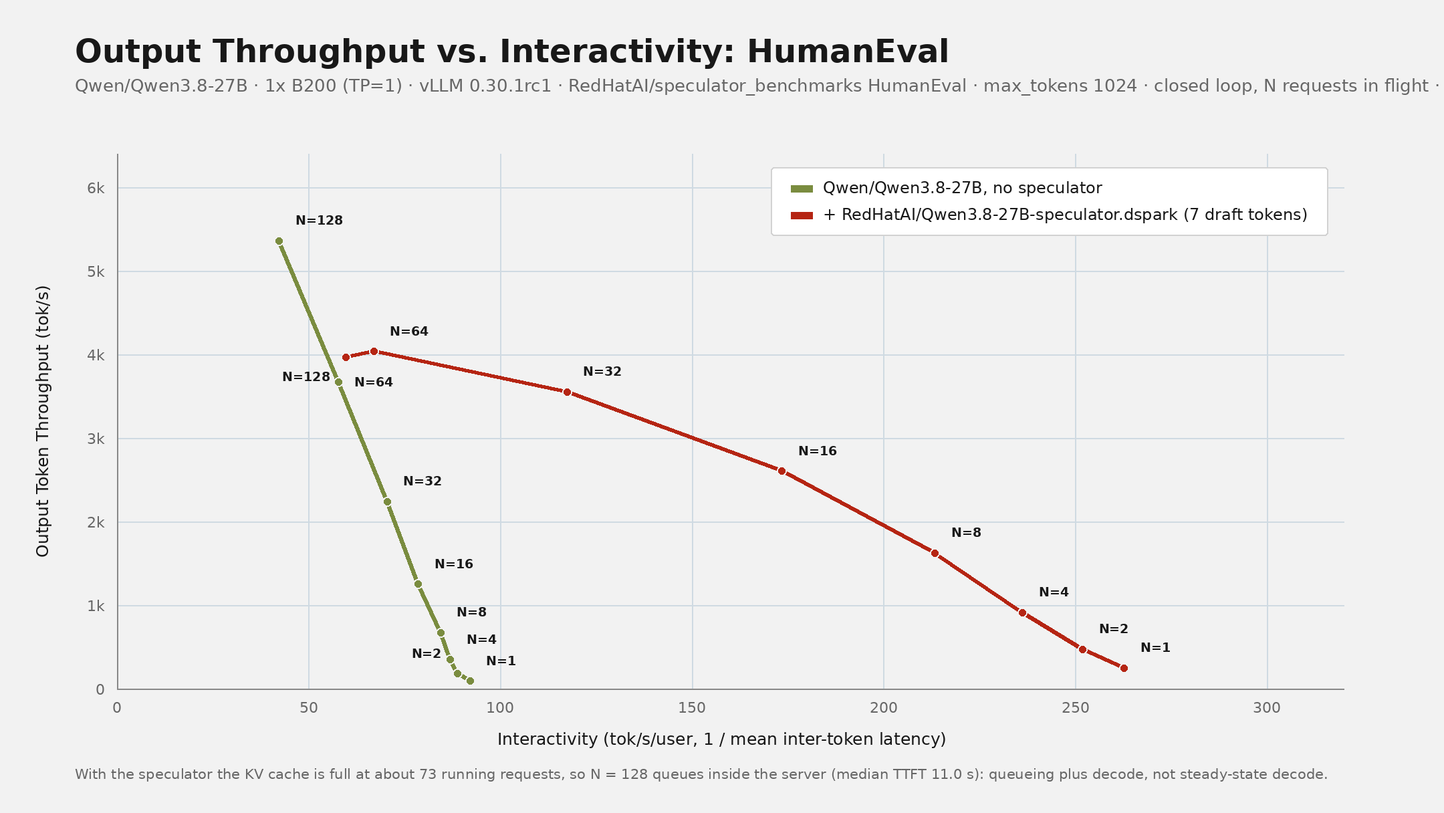
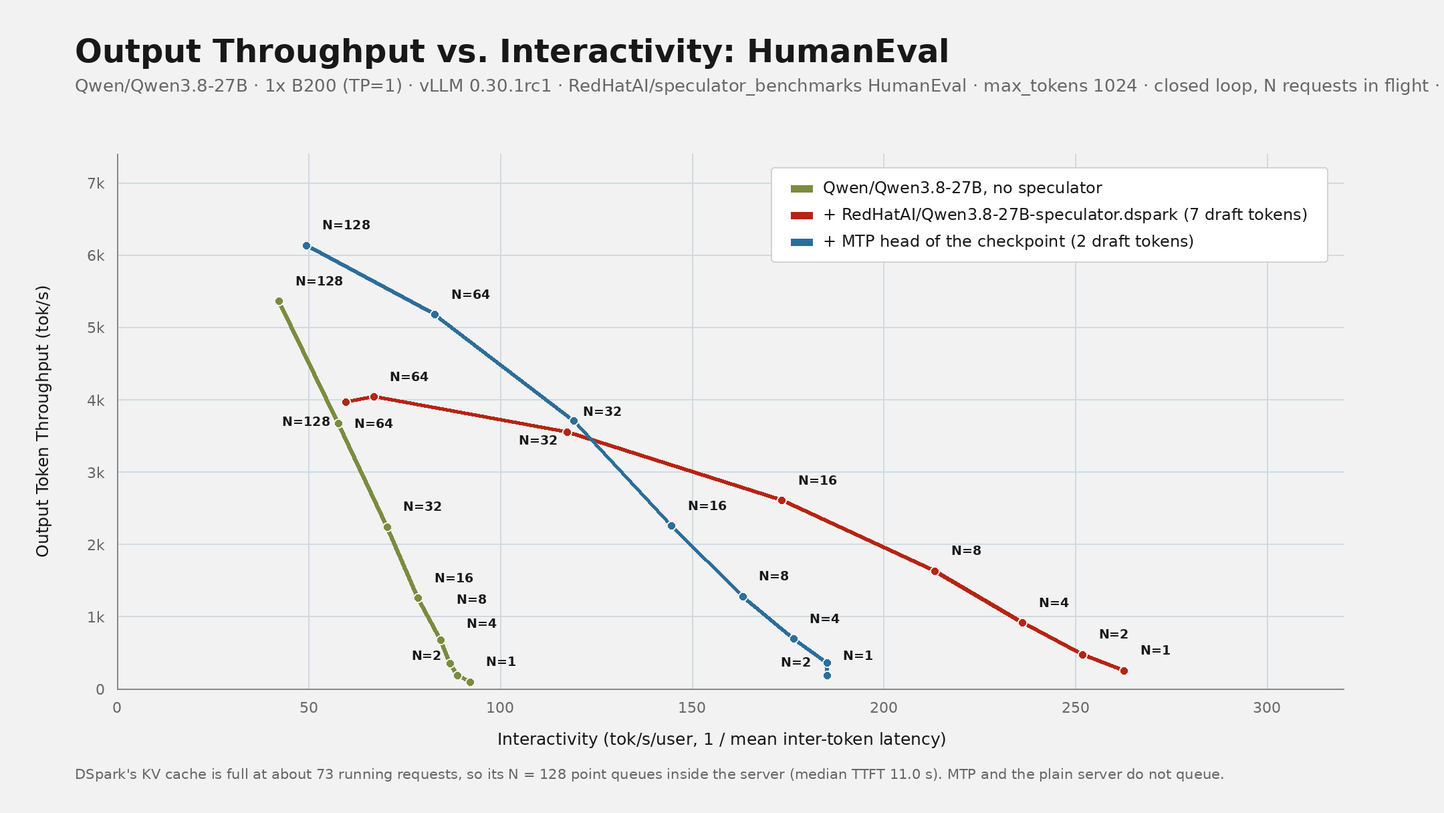
Add the MTP head as a third configuration of the DSpark example
Benchmark Qwen/Qwen3.8-27B with the MTP head shipped in the checkpoint, at
the 2 draft tokens Qwen's model cards recommend for this architecture, on
the same HumanEval and math_reasoning sweeps. Add it to the example script,
the charts (three curves), the results tables and findings, and the results
directory (CSVs, provenance, validation reports, serve command and driver).

With 2-token drafts MTP gives 2.0x to 2.2x per-user speed at one request in
flight against 2.9x to 4.0x for DSpark, but its KV cache holds all 128
requests and its cheap drafts keep the verifier batch efficient, so it ends
above the plain server in throughput at 128 streams on both datasets, where
the DSpark configuration has queued since about 73 running requests.

diff --git a/examples/evaluate/results/qwen3_8_27b_dspark/README.md b/examples/evaluate/results/qwen3_8_27b_dspark/README.md
@@ -1,46 +1,46 @@
-# Qwen3.8-27B with and without `RedHatAI/Qwen3.8-27B-speculator.dspark`
+# Qwen3.8-27B alone, with `RedHatAI/Qwen3.8-27B-speculator.dspark`, and with its MTP head
 
-Results of `examples/evaluate/example_qwen3_8_27b_dspark_throughput_interactivity.sh`'s procedure, measured on 2026-10-06. The charts are in `docs/assets/throughput_interactivity_qwen3_8_27b_*.png` and the discussion in the [tutorial](../../../docs/user_guide/tutorials/throughput_interactivity.md#results-qwen38-27b-with-and-without-its-dspark-speculator).
+Results of `examples/evaluate/example_qwen3_8_27b_dspark_throughput_interactivity.sh`'s procedure, measured on 2026-10-06. The charts are in `docs/assets/throughput_interactivity_qwen3_8_27b_*.png` and the discussion in the [tutorial](../../../docs/user_guide/tutorials/throughput_interactivity.md#results-qwen38-27b-alone-with-its-dspark-speculator-and-with-its-mtp-head).
 
-| file                                  | contents                                                                                                                                                                          |
-| ------------------------------------- | --------------------------------------------------------------------------------------------------------------------------------------------------------------------------------- |
-| `<config>_<subset>.csv`               | one row per point: `baseline` is `Qwen/Qwen3.8-27B` alone, `dspark` adds the speculator with 7 draft tokens                                                                       |
-| `<config>_<subset>_validate.txt`      | the `validate` table and warnings for that sweep                                                                                                                                  |
-| `<config>_<subset>_bench_command.txt` | provenance written by `collect`: command, versions, server version and model list                                                                                                 |
-| `serve_<config>_command.txt`          | the exact `vllm serve` command of each server                                                                                                                                     |
-| `diagnostic_pinned_limits/`           | N = 96 and 128 rerun with `--max-num-seqs 256 --max-num-batched-tokens 16384` while sampling vLLM's running, waiting and KV-usage gauges: the queueing comes from a full KV cache |
-| `run_sweeps_used.sh`                  | the driver that produced these files: the same `collect` calls as the example script, with the two servers run in parallel on two GPUs                                            |
+| file                                    | contents                                                                                                                                                                                    |
+| --------------------------------------- | ------------------------------------------------------------------------------------------------------------------------------------------------------------------------------------------- |
+| `<config>_<subset>.csv`                 | one row per point: `baseline` is `Qwen/Qwen3.8-27B` alone, `dspark` adds the speculator with 7 draft tokens, `mtp` uses the checkpoint's own MTP head with 2 draft tokens                   |
+| `<config>_<subset>_validate.txt`        | the `validate` table and warnings for that sweep                                                                                                                                            |
+| `<config>_<subset>_bench_command.txt`   | provenance written by `collect`: command, versions, server version and model list                                                                                                           |
+| `serve_<config>_command.txt`            | the exact `vllm serve` command of each server                                                                                                                                               |
+| `diagnostic_pinned_limits/`             | DSpark at N = 96 and 128 rerun with `--max-num-seqs 256 --max-num-batched-tokens 16384` while sampling vLLM's running, waiting and KV-usage gauges: the queueing comes from a full KV cache |
+| `run_sweeps_used.sh`, `run_mtp_used.sh` | the drivers that produced these files: the same `collect` calls as the example script, with the plain and DSpark servers run in parallel on two GPUs and the MTP server afterwards          |
 
-Environment: one NVIDIA B200 per server (TP=1), vLLM 0.30.1rc1.dev418 nightly, GuideLLM 0.8.0, Python 3.12, `--max-model-len 16384`, vLLM's defaults for this GPU (`max-num-seqs` 1,024, `max-num-batched-tokens` 16,384). One run per point.
+Environment: one NVIDIA B200 per server (TP=1), vLLM 0.30.1rc1.dev418 nightly, GuideLLM 0.8.0, Python 3.12, `--max-model-len 16384`. One run per point.
 
-**What the two charts say.** With one request in flight the speculator multiplies each user's speed by 2.9 on HumanEval (263 against 92 tok/s per user) and by 4.0 on math_reasoning (373 against 92), in line with its measured acceptance lengths of 3.4 and 4.7. The gain shrinks as concurrency grows, because the verifier's batch becomes compute-bound and every drafted token still has to be verified: at 64 in flight the per-user gain is 1.16x on HumanEval and 1.54x on math_reasoning, with 10% and 36% more throughput. At 128 in flight the plain server produces more tokens per second on HumanEval (5,359 against 3,967) and about the same on math_reasoning (4,977 against 4,730); the speculator configuration has reached its capacity between 64 and 128 streams, its KV cache is full at about 73 running requests, and `validate` flags its 128-stream points as queueing inside the server (median TTFT 11.0 s and 3.4 s). Acceptance length is flat across the sweep (3.36 to 3.45 on HumanEval, 4.49 to 4.67 on math_reasoning), so the shrinking gain is the GPU running out of compute, not the drafter getting worse.
+**What the two charts say.** With one request in flight, DSpark multiplies each user's speed by 2.9 on HumanEval (263 against 92 tok/s per user) and by 4.0 on math_reasoning (373 against 92); the model's own MTP head at 2 draft tokens gives 2.0x and 2.2x (185 and 207 tok/s per user). The measured acceptance lengths explain the gap: 3.4 to 4.7 for DSpark against 2.3 to 2.5 for MTP. Every gain shrinks as concurrency grows, because the verifier's batch becomes compute-bound and every drafted token still has to be verified: at 64 in flight DSpark gives 1.16x and 1.54x per user with 10% and 36% more throughput, MTP 1.44x and 1.55x per user with +41% and +48% throughput. At 128 in flight the plain server produces 5,359 tok/s on HumanEval against 3,967 with DSpark and 6,129 with MTP, and 4,977 on math_reasoning against 4,730 and 6,078. The DSpark configuration reaches its capacity between 64 and 128 streams: its KV cache is full at about 73 running requests, and `validate` flags its 128-stream points as queueing inside the server (median TTFT 11.0 s and 3.4 s); the MTP configuration's median TTFT at 128 is 0.16 s and 0.16 s. MTP, whose 2-token drafts cost little verification and whose KV cache holds all 128 requests, keeps gaining throughput up to 128 streams and ends above the plain server on both datasets. Acceptance length is flat across the sweep for both speculators, so the shrinking gains are the GPU running out of compute, not the drafters getting worse.
 
-**Reading the chart at equal user experience.** Pick a per-user speed and read the throughput each configuration can deliver at it. Around 80 tok/s per user, the plain server runs about 16 requests in flight (1,200 tok/s on either dataset), while the speculator server delivers about 3,800 tok/s on HumanEval (between 32 and 64 in flight) and 4,700 tok/s on math_reasoning (64 in flight): three to four times the output per GPU for the same experience.
+**Reading the chart at equal user experience.** Pick a per-user speed and read the throughput each configuration can deliver at it. Around 80 tok/s per user, the plain server runs about 16 requests in flight (1,200 tok/s on either dataset); the DSpark server delivers about 3,800 tok/s on HumanEval (between 32 and 64 in flight) and 4,700 on math_reasoning (64 in flight); the MTP server delivers about 5,100 tok/s on both (64 in flight). The ranking depends on the target speed: above about 120 tok/s per user on HumanEval and about 100 on math_reasoning only DSpark's longer drafts reach it with more than a handful of users, while at 80 tok/s per user MTP's cheaper drafts give the most output per GPU.
 
-**Caveats.** One run per point, as the example is configured; raise `REPEATS` to 3 before quoting a difference of a few percent. Output lengths are the model's own (no `--ignore-eos`): HumanEval responses average 720 to 800 tokens and math_reasoning responses 260 to 350 tokens, so the two datasets exercise different prompt-to-output ratios, and a shorter answer spends a larger share of its life in prefill. The results were measured with vLLM's defaults on this GPU (`max-num-seqs` 1,024, `max-num-batched-tokens` 16,384); the example script now pins `max-num-seqs` 256 and 16,384 batched tokens, and a rerun of N = 96 and 128 with those limits reproduced the speculator server's numbers (3,897 tok/s at 57 tok/s per user at N = 128). Its queueing is not the batch cap: vLLM's gauges showed at most 74 running requests, the rest waiting, and the KV cache 99.9% full. The drafter adds 11 KV cache groups and shrinks the cache from 1.36M to 544k token-equivalents, and the hybrid model reserves per-request state, so one B200 holds about 73 concurrent requests in this configuration. A quantized target such as `RedHatAI/Qwen3.8-27B-NVFP4` frees memory for the cache.
+**Caveats.** One run per point, as the example is configured; raise `REPEATS` to 3 before quoting a difference of a few percent. `validate` flagged one point, MTP at N = 1 on HumanEval: the 90 s window held 894 generated tokens per completed request against a mean output of 798, so that point is a short-window estimate. Output lengths are the model's own (no `--ignore-eos`): HumanEval responses average 720 to 800 tokens and math_reasoning responses 260 to 350 tokens, so the two datasets exercise different prompt-to-output ratios, and a shorter answer spends a larger share of its life in prefill. The plain and DSpark results were measured with vLLM's defaults on this GPU (`max-num-seqs` 1,024, `max-num-batched-tokens` 16,384) and the MTP results with the limits the example now pins (256 and 16,384); a rerun of DSpark at N = 96 and 128 with the pinned limits reproduced its numbers (3,897 tok/s at 57 tok/s per user at N = 128), and vLLM's gauges showed its queueing is a full KV cache, not the batch cap: at most 74 running requests, the rest waiting, cache 99.9% full. The drafter adds 11 KV cache groups and shrinks the cache from 1.36M to 544k token-equivalents, and the hybrid model reserves per-request state, so one B200 holds about 73 concurrent requests in that configuration. A quantized target such as `RedHatAI/Qwen3.8-27B-NVFP4` frees memory for the cache. MTP uses 2 draft tokens because Qwen's model cards for this architecture recommend `"num_speculative_tokens":2`; vLLM's bare default for the one-layer MTP head would be 1, and more draft tokens were not measured.
 
 ## HumanEval
 
-| N in flight | no speculator: tok/s | tok/s/user | dspark: tok/s | tok/s/user | per-user gain | throughput gain | acceptance length | dspark median TTFT |
-| ----------- | -------------------- | ---------- | ------------- | ---------- | ------------- | --------------- | ----------------- | ------------------ |
-| 1           | 92                   | 92         | 247           | 263        | 2.85x         | 2.70x           | 3.40              | 46 ms              |
-| 2           | 177                  | 89         | 469           | 252        | 2.84x         | 2.65x           | 3.36              | 61 ms              |
-| 4           | 346                  | 87         | 909           | 236        | 2.72x         | 2.63x           | 3.44              | 63 ms              |
-| 8           | 671                  | 84         | 1,624         | 213        | 2.53x         | 2.42x           | 3.44              | 65 ms              |
-| 16          | 1,250                | 79         | 2,601         | 173        | 2.21x         | 2.08x           | 3.45              | 72 ms              |
-| 32          | 2,238                | 70         | 3,549         | 117        | 1.67x         | 1.59x           | 3.43              | 103 ms             |
-| 64          | 3,666                | 58         | 4,034         | 67         | 1.16x         | 1.10x           | 3.44              | 178 ms             |
-| 128         | 5,359                | 42         | 3,967         | 60         | 1.41x         | 0.74x           | 3.43              | 11.0 s             |
+| N in flight | no speculator: tok/s | tok/s/user | DSpark: tok/s | tok/s/user | acceptance | MTP: tok/s | tok/s/user | acceptance |
+| ----------- | -------------------- | ---------- | ------------- | ---------- | ---------- | ---------- | ---------- | ---------- |
+| 1           | 92                   | 92         | 247           | 263        | 3.40       | 179        | 185        | 2.25       |
+| 2           | 177                  | 89         | 469           | 252        | 3.36       | 361        | 185        | 2.27       |
+| 4           | 346                  | 87         | 909           | 236        | 3.44       | 687        | 176        | 2.28       |
+| 8           | 671                  | 84         | 1,624         | 213        | 3.44       | 1,273      | 163        | 2.29       |
+| 16          | 1,250                | 79         | 2,601         | 173        | 3.45       | 2,249      | 145        | 2.26       |
+| 32          | 2,238                | 70         | 3,549         | 117        | 3.43       | 3,707      | 119        | 2.27       |
+| 64          | 3,666                | 58         | 4,034         | 67         | 3.44       | 5,174      | 83         | 2.28       |
+| 128         | 5,359                | 42         | 3,967         | 60         | 3.43       | 6,129      | 49         | 2.27       |
 
 ## math_reasoning
 
-| N in flight | no speculator: tok/s | tok/s/user | dspark: tok/s | tok/s/user | per-user gain | throughput gain | acceptance length | dspark median TTFT |
-| ----------- | -------------------- | ---------- | ------------- | ---------- | ------------- | --------------- | ----------------- | ------------------ |
-| 1           | 91                   | 92         | 332           | 373        | 4.03x         | 3.64x           | 4.59              | 46 ms              |
-| 2           | 175                  | 89         | 603           | 355        | 3.99x         | 3.44x           | 4.49              | 61 ms              |
-| 4           | 341                  | 87         | 1,120         | 326        | 3.76x         | 3.28x           | 4.61              | 62 ms              |
-| 8           | 654                  | 83         | 1,967         | 286        | 3.44x         | 3.01x           | 4.65              | 64 ms              |
-| 16          | 1,196                | 76         | 3,116         | 227        | 2.98x         | 2.61x           | 4.61              | 71 ms              |
-| 32          | 2,102                | 67         | 4,189         | 150        | 2.25x         | 1.99x           | 4.67              | 110 ms             |
-| 64          | 3,436                | 55         | 4,684         | 84         | 1.54x         | 1.36x           | 4.67              | 191 ms             |
-| 128         | 4,977                | 40         | 4,730         | 75         | 1.90x         | 0.95x           | 4.67              | 3.4 s              |
+| N in flight | no speculator: tok/s | tok/s/user | DSpark: tok/s | tok/s/user | acceptance | MTP: tok/s | tok/s/user | acceptance |
+| ----------- | -------------------- | ---------- | ------------- | ---------- | ---------- | ---------- | ---------- | ---------- |
+| 1           | 91                   | 92         | 332           | 373        | 4.59       | 197        | 207        | 2.51       |
+| 2           | 175                  | 89         | 603           | 355        | 4.49       | 385        | 206        | 2.51       |
+| 4           | 341                  | 87         | 1,120         | 326        | 4.61       | 725        | 193        | 2.53       |
+| 8           | 654                  | 83         | 1,967         | 286        | 4.65       | 1,302      | 175        | 2.52       |
+| 16          | 1,196                | 76         | 3,116         | 227        | 4.61       | 2,251      | 151        | 2.53       |
+| 32          | 2,102                | 67         | 4,189         | 150        | 4.67       | 3,671      | 122        | 2.53       |
+| 64          | 3,436                | 55         | 4,684         | 84         | 4.67       | 5,093      | 85         | 2.53       |
+| 128         | 4,977                | 40         | 4,730         | 75         | 4.67       | 6,078      | 50         | 2.54       |

diff --git a/docs/user_guide/tutorials/throughput_interactivity.md b/docs/user_guide/tutorials/throughput_interactivity.md
@@ -105,7 +105,7 @@ It launches vLLM for each configuration, sweeps N = 1 to 128 on each dataset, st
 - At 1,024 output tokens, a request takes a few seconds at N = 1 and tens of seconds at N = 128, so the high-N points need a 60 s warmup and a 120 s window or more.
 - Run the configurations one at a time on a quiet machine, keep the server flags identical apart from the speculator, and repeat every point before quoting a difference of a few percent.
 
-## Results: Qwen3.8-27B with and without its DSpark speculator
+## Results: Qwen3.8-27B alone, with its DSpark speculator, and with its MTP head
 
 Produced by the example script's procedure on 2026-10-06, one B200 per server, vLLM 0.30.1rc1 nightly, GuideLLM 0.8.0, `max_tokens` 1024, N = 1 to 128 requests in flight, one run per point. CSVs, provenance and the validation reports are under `examples/evaluate/results/qwen3_8_27b_dspark/`.
 
@@ -113,38 +113,38 @@ Produced by the example script's procedure on 2026-10-06, one B200 per server, v
 
 ![Throughput vs. interactivity, math_reasoning](../../assets/throughput_interactivity_qwen3_8_27b_math_reasoning.png)
 
-**What the two charts say.** With one request in flight the speculator multiplies each user's speed by 2.9 on HumanEval (263 against 92 tok/s per user) and by 4.0 on math_reasoning (373 against 92), in line with its measured acceptance lengths of 3.4 and 4.7. The gain shrinks as concurrency grows, because the verifier's batch becomes compute-bound and every drafted token still has to be verified: at 64 in flight the per-user gain is 1.16x on HumanEval and 1.54x on math_reasoning, with 10% and 36% more throughput. At 128 in flight the plain server produces more tokens per second on HumanEval (5,359 against 3,967) and about the same on math_reasoning (4,977 against 4,730); the speculator configuration has reached its capacity between 64 and 128 streams, its KV cache is full at about 73 running requests, and `validate` flags its 128-stream points as queueing inside the server (median TTFT 11.0 s and 3.4 s). Acceptance length is flat across the sweep (3.36 to 3.45 on HumanEval, 4.49 to 4.67 on math_reasoning), so the shrinking gain is the GPU running out of compute, not the drafter getting worse.
+**What the two charts say.** With one request in flight, DSpark multiplies each user's speed by 2.9 on HumanEval (263 against 92 tok/s per user) and by 4.0 on math_reasoning (373 against 92); the model's own MTP head at 2 draft tokens gives 2.0x and 2.2x (185 and 207 tok/s per user). The measured acceptance lengths explain the gap: 3.4 to 4.7 for DSpark against 2.3 to 2.5 for MTP. Every gain shrinks as concurrency grows, because the verifier's batch becomes compute-bound and every drafted token still has to be verified: at 64 in flight DSpark gives 1.16x and 1.54x per user with 10% and 36% more throughput, MTP 1.44x and 1.55x per user with +41% and +48% throughput. At 128 in flight the plain server produces 5,359 tok/s on HumanEval against 3,967 with DSpark and 6,129 with MTP, and 4,977 on math_reasoning against 4,730 and 6,078. The DSpark configuration reaches its capacity between 64 and 128 streams: its KV cache is full at about 73 running requests, and `validate` flags its 128-stream points as queueing inside the server (median TTFT 11.0 s and 3.4 s); the MTP configuration's median TTFT at 128 is 0.16 s and 0.16 s. MTP, whose 2-token drafts cost little verification and whose KV cache holds all 128 requests, keeps gaining throughput up to 128 streams and ends above the plain server on both datasets. Acceptance length is flat across the sweep for both speculators, so the shrinking gains are the GPU running out of compute, not the drafters getting worse.
 
-**Reading the chart at equal user experience.** Pick a per-user speed and read the throughput each configuration can deliver at it. Around 80 tok/s per user, the plain server runs about 16 requests in flight (1,200 tok/s on either dataset), while the speculator server delivers about 3,800 tok/s on HumanEval (between 32 and 64 in flight) and 4,700 tok/s on math_reasoning (64 in flight): three to four times the output per GPU for the same experience.
+**Reading the chart at equal user experience.** Pick a per-user speed and read the throughput each configuration can deliver at it. Around 80 tok/s per user, the plain server runs about 16 requests in flight (1,200 tok/s on either dataset); the DSpark server delivers about 3,800 tok/s on HumanEval (between 32 and 64 in flight) and 4,700 on math_reasoning (64 in flight); the MTP server delivers about 5,100 tok/s on both (64 in flight). The ranking depends on the target speed: above about 120 tok/s per user on HumanEval and about 100 on math_reasoning only DSpark's longer drafts reach it with more than a handful of users, while at 80 tok/s per user MTP's cheaper drafts give the most output per GPU.
 
-**Caveats.** One run per point, as the example is configured; raise `REPEATS` to 3 before quoting a difference of a few percent. Output lengths are the model's own (no `--ignore-eos`): HumanEval responses average 720 to 800 tokens and math_reasoning responses 260 to 350 tokens, so the two datasets exercise different prompt-to-output ratios, and a shorter answer spends a larger share of its life in prefill. The results were measured with vLLM's defaults on this GPU (`max-num-seqs` 1,024, `max-num-batched-tokens` 16,384); the example script now pins `max-num-seqs` 256 and 16,384 batched tokens, and a rerun of N = 96 and 128 with those limits reproduced the speculator server's numbers (3,897 tok/s at 57 tok/s per user at N = 128). Its queueing is not the batch cap: vLLM's gauges showed at most 74 running requests, the rest waiting, and the KV cache 99.9% full. The drafter adds 11 KV cache groups and shrinks the cache from 1.36M to 544k token-equivalents, and the hybrid model reserves per-request state, so one B200 holds about 73 concurrent requests in this configuration. A quantized target such as `RedHatAI/Qwen3.8-27B-NVFP4` frees memory for the cache.
+**Caveats.** One run per point, as the example is configured; raise `REPEATS` to 3 before quoting a difference of a few percent. `validate` flagged one point, MTP at N = 1 on HumanEval: the 90 s window held 894 generated tokens per completed request against a mean output of 798, so that point is a short-window estimate. Output lengths are the model's own (no `--ignore-eos`): HumanEval responses average 720 to 800 tokens and math_reasoning responses 260 to 350 tokens, so the two datasets exercise different prompt-to-output ratios, and a shorter answer spends a larger share of its life in prefill. The plain and DSpark results were measured with vLLM's defaults on this GPU (`max-num-seqs` 1,024, `max-num-batched-tokens` 16,384) and the MTP results with the limits the example now pins (256 and 16,384); a rerun of DSpark at N = 96 and 128 with the pinned limits reproduced its numbers (3,897 tok/s at 57 tok/s per user at N = 128), and vLLM's gauges showed its queueing is a full KV cache, not the batch cap: at most 74 running requests, the rest waiting, cache 99.9% full. The drafter adds 11 KV cache groups and shrinks the cache from 1.36M to 544k token-equivalents, and the hybrid model reserves per-request state, so one B200 holds about 73 concurrent requests in that configuration. A quantized target such as `RedHatAI/Qwen3.8-27B-NVFP4` frees memory for the cache. MTP uses 2 draft tokens because Qwen's model cards for this architecture recommend `"num_speculative_tokens":2`; vLLM's bare default for the one-layer MTP head would be 1, and more draft tokens were not measured.
 
 ### HumanEval
 
-| N in flight | no speculator: tok/s | tok/s/user | dspark: tok/s | tok/s/user | per-user gain | throughput gain | acceptance length | dspark median TTFT |
-| ----------- | -------------------- | ---------- | ------------- | ---------- | ------------- | --------------- | ----------------- | ------------------ |
-| 1           | 92                   | 92         | 247           | 263        | 2.85x         | 2.70x           | 3.40              | 46 ms              |
-| 2           | 177                  | 89         | 469           | 252        | 2.84x         | 2.65x           | 3.36              | 61 ms              |
-| 4           | 346                  | 87         | 909           | 236        | 2.72x         | 2.63x           | 3.44              | 63 ms              |
-| 8           | 671                  | 84         | 1,624         | 213        | 2.53x         | 2.42x           | 3.44              | 65 ms              |
-| 16          | 1,250                | 79         | 2,601         | 173        | 2.21x         | 2.08x           | 3.45              | 72 ms              |
-| 32          | 2,238                | 70         | 3,549         | 117        | 1.67x         | 1.59x           | 3.43              | 103 ms             |
-| 64          | 3,666                | 58         | 4,034         | 67         | 1.16x         | 1.10x           | 3.44              | 178 ms             |
-| 128         | 5,359                | 42         | 3,967         | 60         | 1.41x         | 0.74x           | 3.43              | 11.0 s             |
+| N in flight | no speculator: tok/s | tok/s/user | DSpark: tok/s | tok/s/user | acceptance | MTP: tok/s | tok/s/user | acceptance |
+| ----------- | -------------------- | ---------- | ------------- | ---------- | ---------- | ---------- | ---------- | ---------- |
+| 1           | 92                   | 92         | 247           | 263        | 3.40       | 179        | 185        | 2.25       |
+| 2           | 177                  | 89         | 469           | 252        | 3.36       | 361        | 185        | 2.27       |
+| 4           | 346                  | 87         | 909           | 236        | 3.44       | 687        | 176        | 2.28       |
+| 8           | 671                  | 84         | 1,624         | 213        | 3.44       | 1,273      | 163        | 2.29       |
+| 16          | 1,250                | 79         | 2,601         | 173        | 3.45       | 2,249      | 145        | 2.26       |
+| 32          | 2,238                | 70         | 3,549         | 117        | 3.43       | 3,707      | 119        | 2.27       |
+| 64          | 3,666                | 58         | 4,034         | 67         | 3.44       | 5,174      | 83         | 2.28       |
+| 128         | 5,359                | 42         | 3,967         | 60         | 3.43       | 6,129      | 49         | 2.27       |
 
 ### math_reasoning
 
-| N in flight | no speculator: tok/s | tok/s/user | dspark: tok/s | tok/s/user | per-user gain | throughput gain | acceptance length | dspark median TTFT |
-| ----------- | -------------------- | ---------- | ------------- | ---------- | ------------- | --------------- | ----------------- | ------------------ |
-| 1           | 91                   | 92         | 332           | 373        | 4.03x         | 3.64x           | 4.59              | 46 ms              |
-| 2           | 175                  | 89         | 603           | 355        | 3.99x         | 3.44x           | 4.49              | 61 ms              |
-| 4           | 341                  | 87         | 1,120         | 326        | 3.76x         | 3.28x           | 4.61              | 62 ms              |
-| 8           | 654                  | 83         | 1,967         | 286        | 3.44x         | 3.01x           | 4.65              | 64 ms              |
-| 16          | 1,196                | 76         | 3,116         | 227        | 2.98x         | 2.61x           | 4.61              | 71 ms              |
-| 32          | 2,102                | 67         | 4,189         | 150        | 2.25x         | 1.99x           | 4.67              | 110 ms             |
-| 64          | 3,436                | 55         | 4,684         | 84         | 1.54x         | 1.36x           | 4.67              | 191 ms             |
-| 128         | 4,977                | 40         | 4,730         | 75         | 1.90x         | 0.95x           | 4.67              | 3.4 s              |
+| N in flight | no speculator: tok/s | tok/s/user | DSpark: tok/s | tok/s/user | acceptance | MTP: tok/s | tok/s/user | acceptance |
+| ----------- | -------------------- | ---------- | ------------- | ---------- | ---------- | ---------- | ---------- | ---------- |
+| 1           | 91                   | 92         | 332           | 373        | 4.59       | 197        | 207        | 2.51       |
+| 2           | 175                  | 89         | 603           | 355        | 4.49       | 385        | 206        | 2.51       |
+| 4           | 341                  | 87         | 1,120         | 326        | 4.61       | 725        | 193        | 2.53       |
+| 8           | 654                  | 83         | 1,967         | 286        | 4.65       | 1,302      | 175        | 2.52       |
+| 16          | 1,196                | 76         | 3,116         | 227        | 4.61       | 2,251      | 151        | 2.53       |
+| 32          | 2,102                | 67         | 4,189         | 150        | 4.67       | 3,671      | 122        | 2.53       |
+| 64          | 3,436                | 55         | 4,684         | 84         | 4.67       | 5,093      | 85         | 2.53       |
+| 128         | 4,977                | 40         | 4,730         | 75         | 4.67       | 6,078      | 50         | 2.54       |
 
-Interactivity is 1000 / mean inter-token latency. "Per-user gain" and "throughput gain" are the speculator configuration divided by the plain one at the same N.
+Interactivity is 1000 / mean inter-token latency. Acceptance is the mean accepted draft length plus one, from vLLM's counters over the run.
 
 See [throughput_interactivity.py](../../cli/throughput_interactivity.md) for the full command-line reference and the CSV columns.
